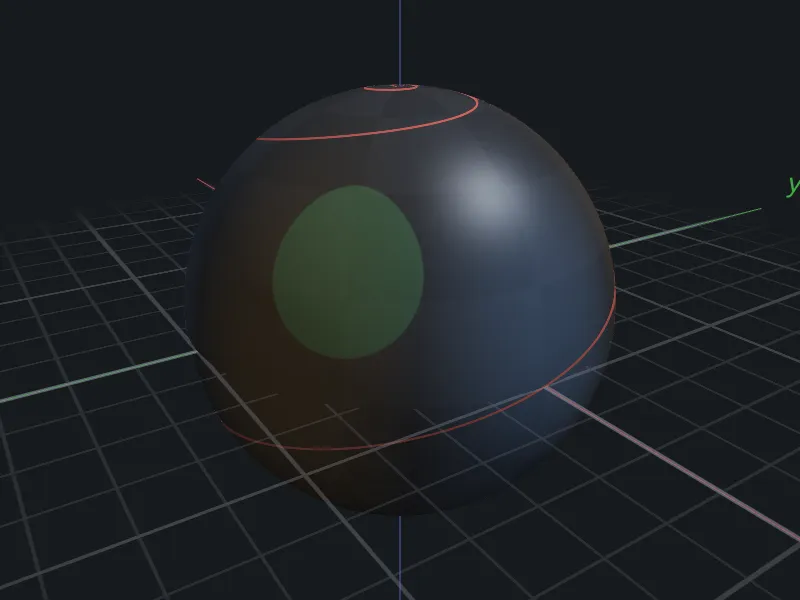
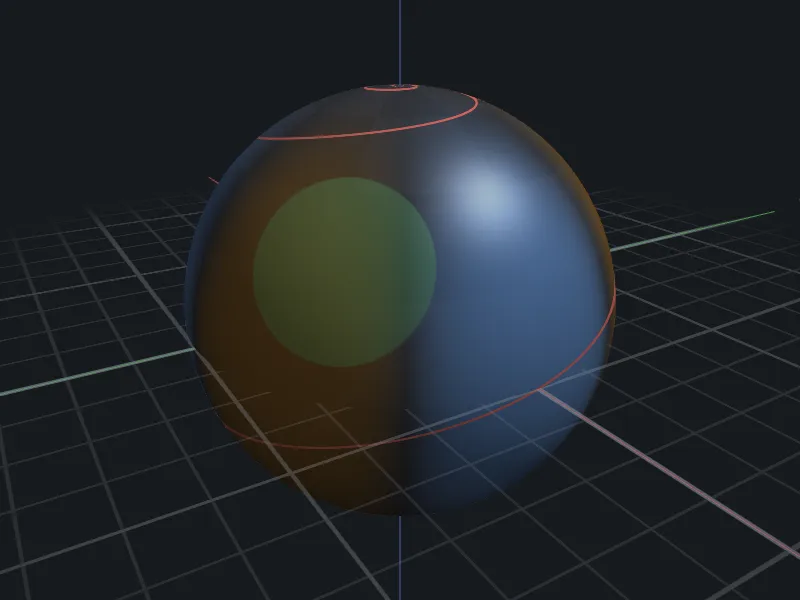
Examples: distinct torus-knot default, Bode framing, clearer globe
The torus entry defaults to the (3, 4) knot, unlike the (2, 5) knot on
the 3D curves tile, and notes that gcd(p, q) > 1 draws a torus link.
The globe, now the category's cover, paints a stronger field and a true
geodesic cap. The Bode plot shows 0.01..100 and fits the Q = 20 peak.
Thumbnails reshot with pnpm shots:examples.

Claude-Session: https://claude.ai/code/session_01Qm571xSz5BirgrtpW7FGsk

diff --git a/web/examples.ts b/web/examples.ts
@@ -977,7 +977,7 @@ export const EXAMPLES: Array<[string, Array<[string, string, string]>]> = [
       // A log frequency axis: a resonance peak of 20 log(Q) dB, then -40 dB a decade.
       [
         'Bode plot (slide Q)',
-        'view(x = 0.01..100, y = -65..25, x = 10^X, ratio = 0.05); Q = clamp(4, 0.5, 20); ' +
+        'view(x = 0.01..100, y = -65..30, x = 10^X, ratio = 0.03); Q = clamp(4, 0.5, 20); ' +
           'y = -10 log((1 - x^2)^2 + (x/Q)^2); y = {x < 1: 0, -40 log(x)}',
         'coordinates physics slider',
       ],
@@ -1051,11 +1051,12 @@ export const EXAMPLES: Array<[string, Array<[string, string, string]>]> = [
     'drawing on surfaces',
     [
       // Longitude x, latitude y. A loxodrome crosses every meridian at one
-      // angle: x = 4 asinh(tan(y)), a straight line on a Mercator map.
+      // angle: x = 4 asinh(tan(y)), a straight line on a Mercator map. The cap
+      // holds the points within 0.35 radians of (-0.8, 0.5), by their dot product.
       [
         'globe: a field, a loxodrome and a cap',
         'camera(-pi/4, 0.4, 7, spin = 0.2); on((X, Y, Z) = (2cos(y) cos(x), 2cos(y) sin(x), 2sin(y)), x = -pi..pi, y = -pi/2..pi/2); ' +
-          'cos(y)^3 cos(3x); sin((x - 4 asinh(tan(y)))/2) = 0; (x + 0.8)^2 + (y - 0.5)^2 < 0.1',
+          '4cos(y)^3 cos(3x); sin((x - 4 asinh(tan(y)))/2) = 0; cos(y) cos(0.5) cos(x + 0.8) + sin(y) sin(0.5) > cos(0.35)',
         '3d surface scalar-field coordinates',
       ],
       // The great circle whose highest point is P.
@@ -1074,10 +1075,11 @@ export const EXAMPLES: Array<[string, Array<[string, string, string]>]> = [
         '3d vector-field slider',
       ],
       // The line of slope q/p, wrapped round both of the torus's circles, is
-      // the (p, q) torus knot: p y - q x is a multiple of 2π along it.
+      // the (p, q) torus knot: p y - q x is a multiple of 2π along it. With
+      // gcd(p, q) > 1 it is a torus link of gcd(p, q) loops instead.
       [
         'torus knot as a line (slide p, q)',
-        'camera(-pi/3, 0.8, 11); p = clamp(round(2), 1, 9); q = clamp(round(5), 1, 9); ' +
+        'camera(-pi/3, 0.8, 11); p = clamp(round(3), 1, 9); q = clamp(round(4), 1, 9); ' +
           'on((X, Y, Z) = ((3 + cos(y)) cos(x), (3 + cos(y)) sin(x), sin(y)), x = -pi..pi, y = -pi..pi); sin((p y - q x)/2) = 0',
         '3d knot slider',
       ],
@@ -1310,7 +1312,7 @@ export const COVERS: Record<string, string> = {
   complex: 'domain coloring',
   'polar + plane coordinates': 'spiral traced in (r, θ)',
   'spherical + cylindrical': 'cylindrical chart',
-  'drawing on surfaces': 'torus knot as a line (slide p, q)',
+  'drawing on surfaces': 'globe: a field, a loxodrome and a cap',
   '3D surfaces': 'gyroid',
   'fields in space': 'hydrogen 2p orbital',
   solids: 'icosahedron',
